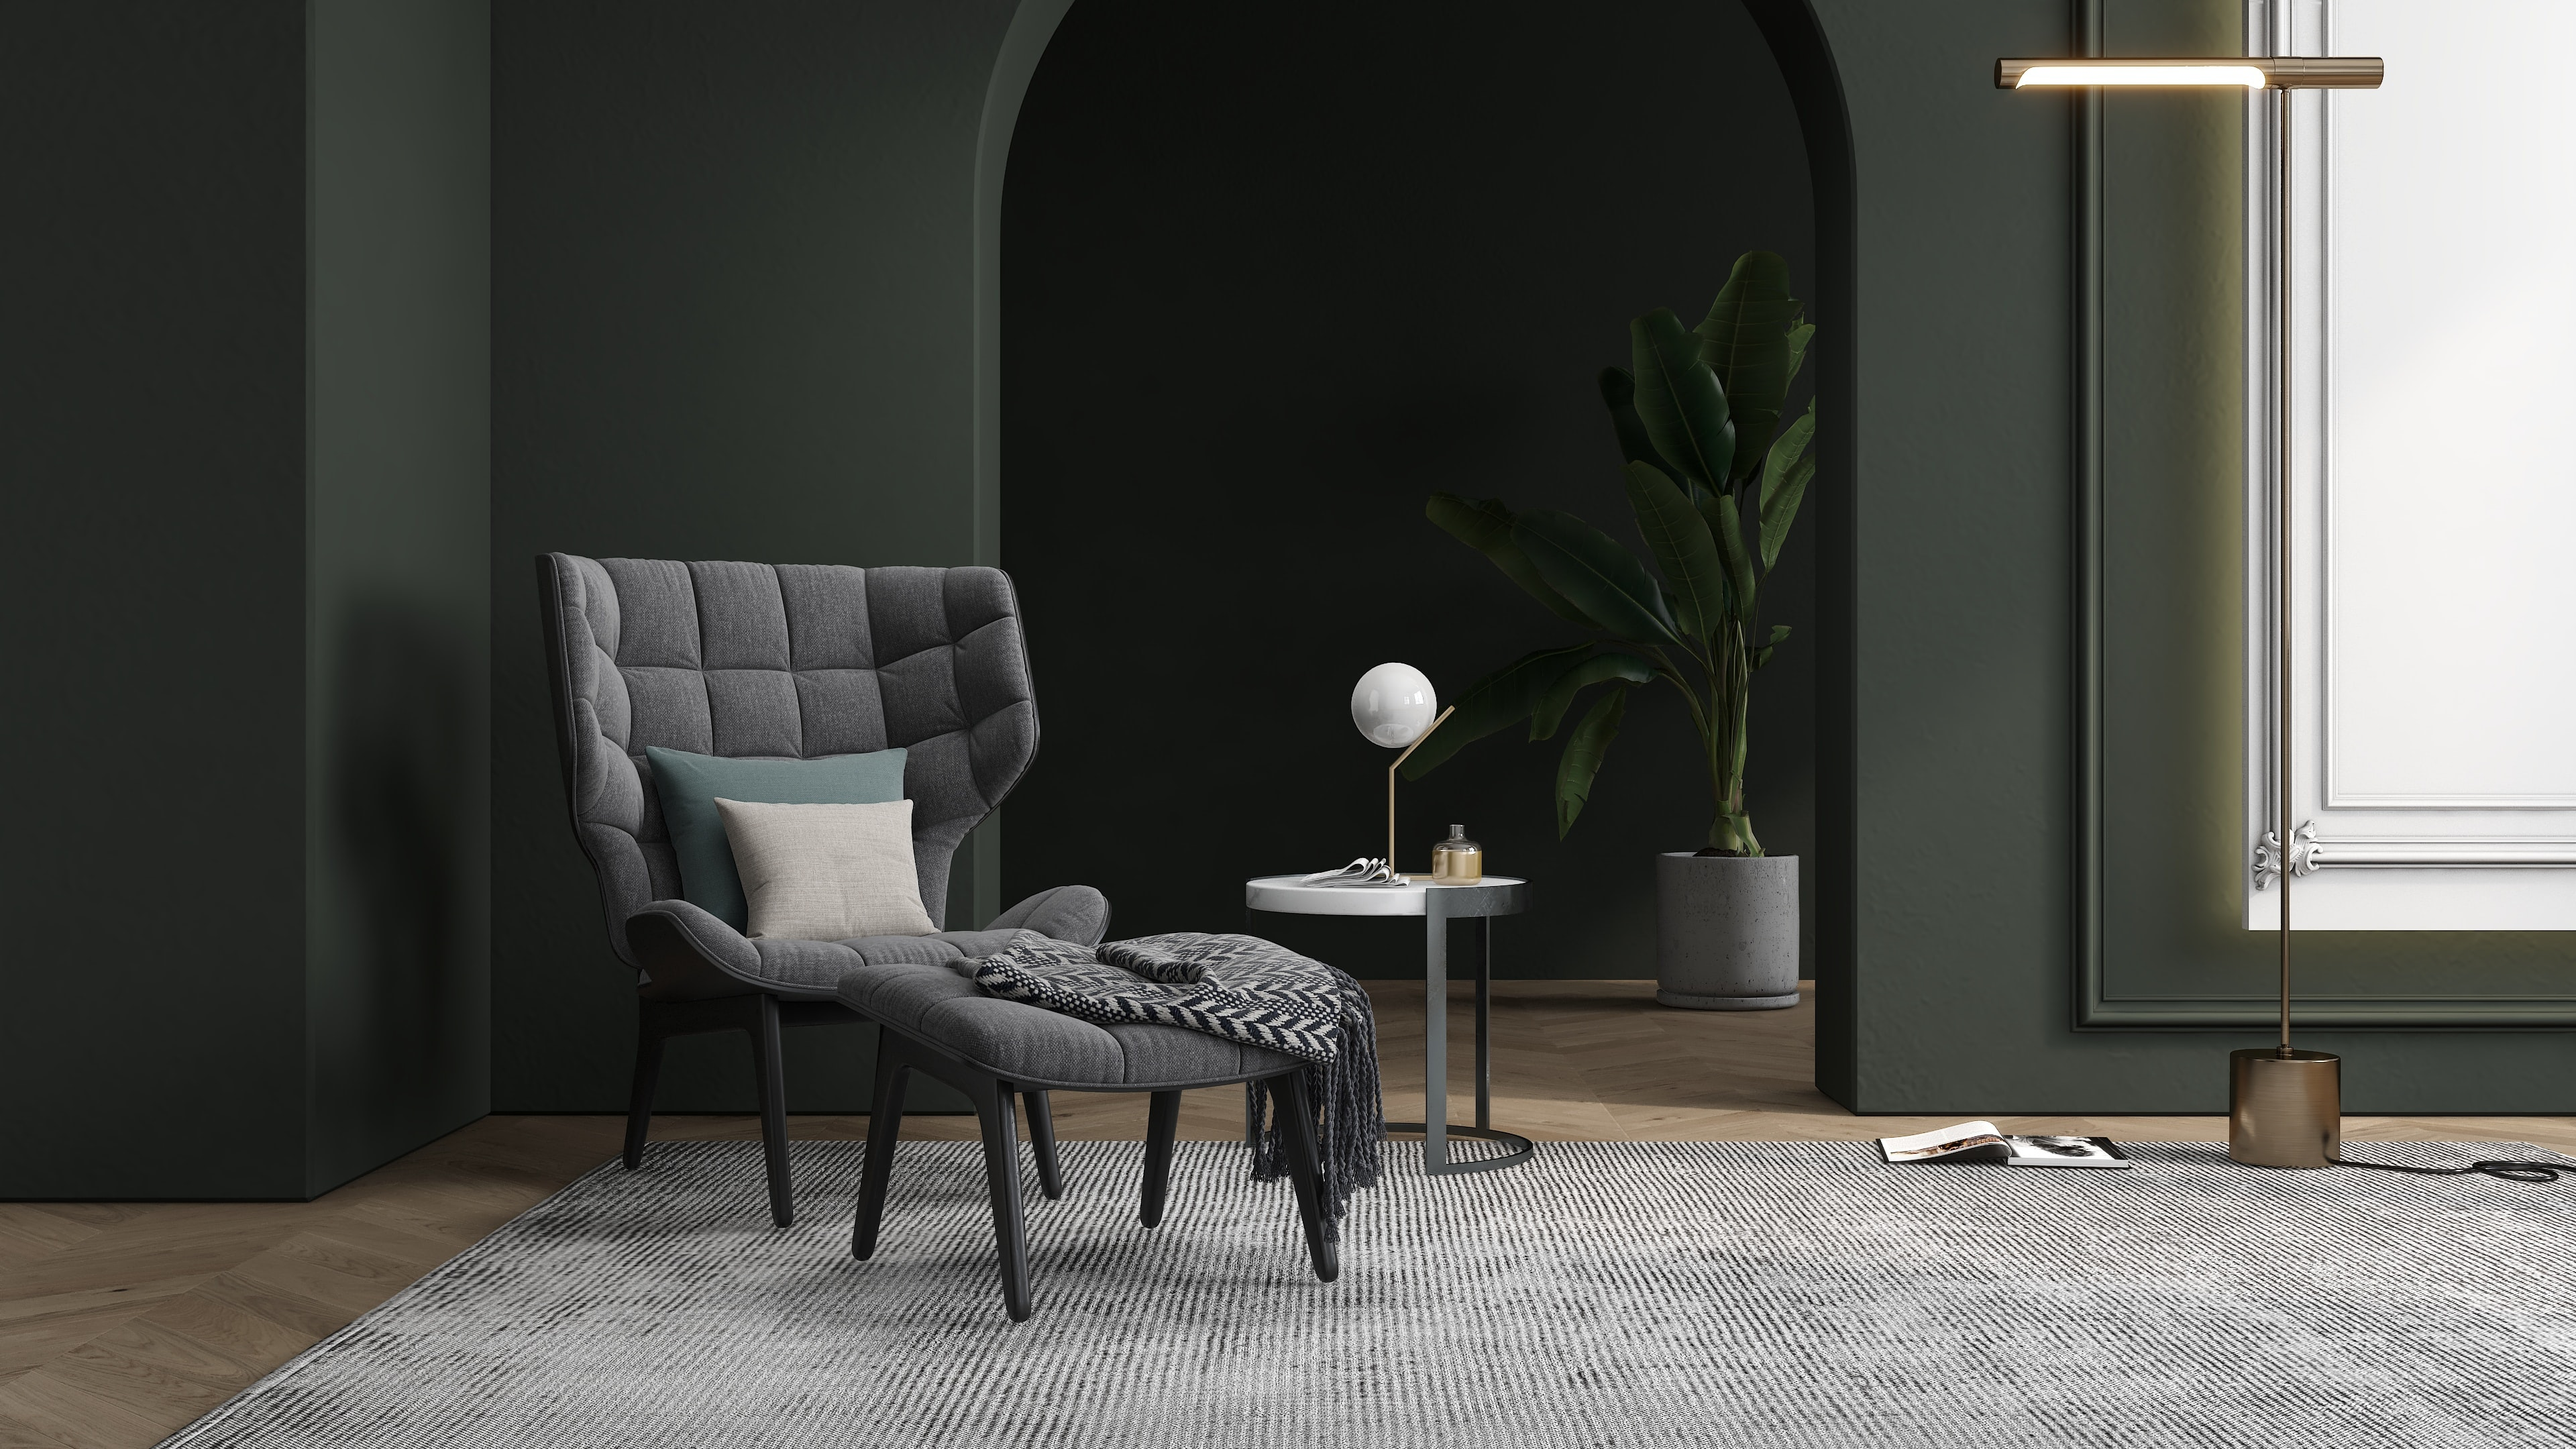
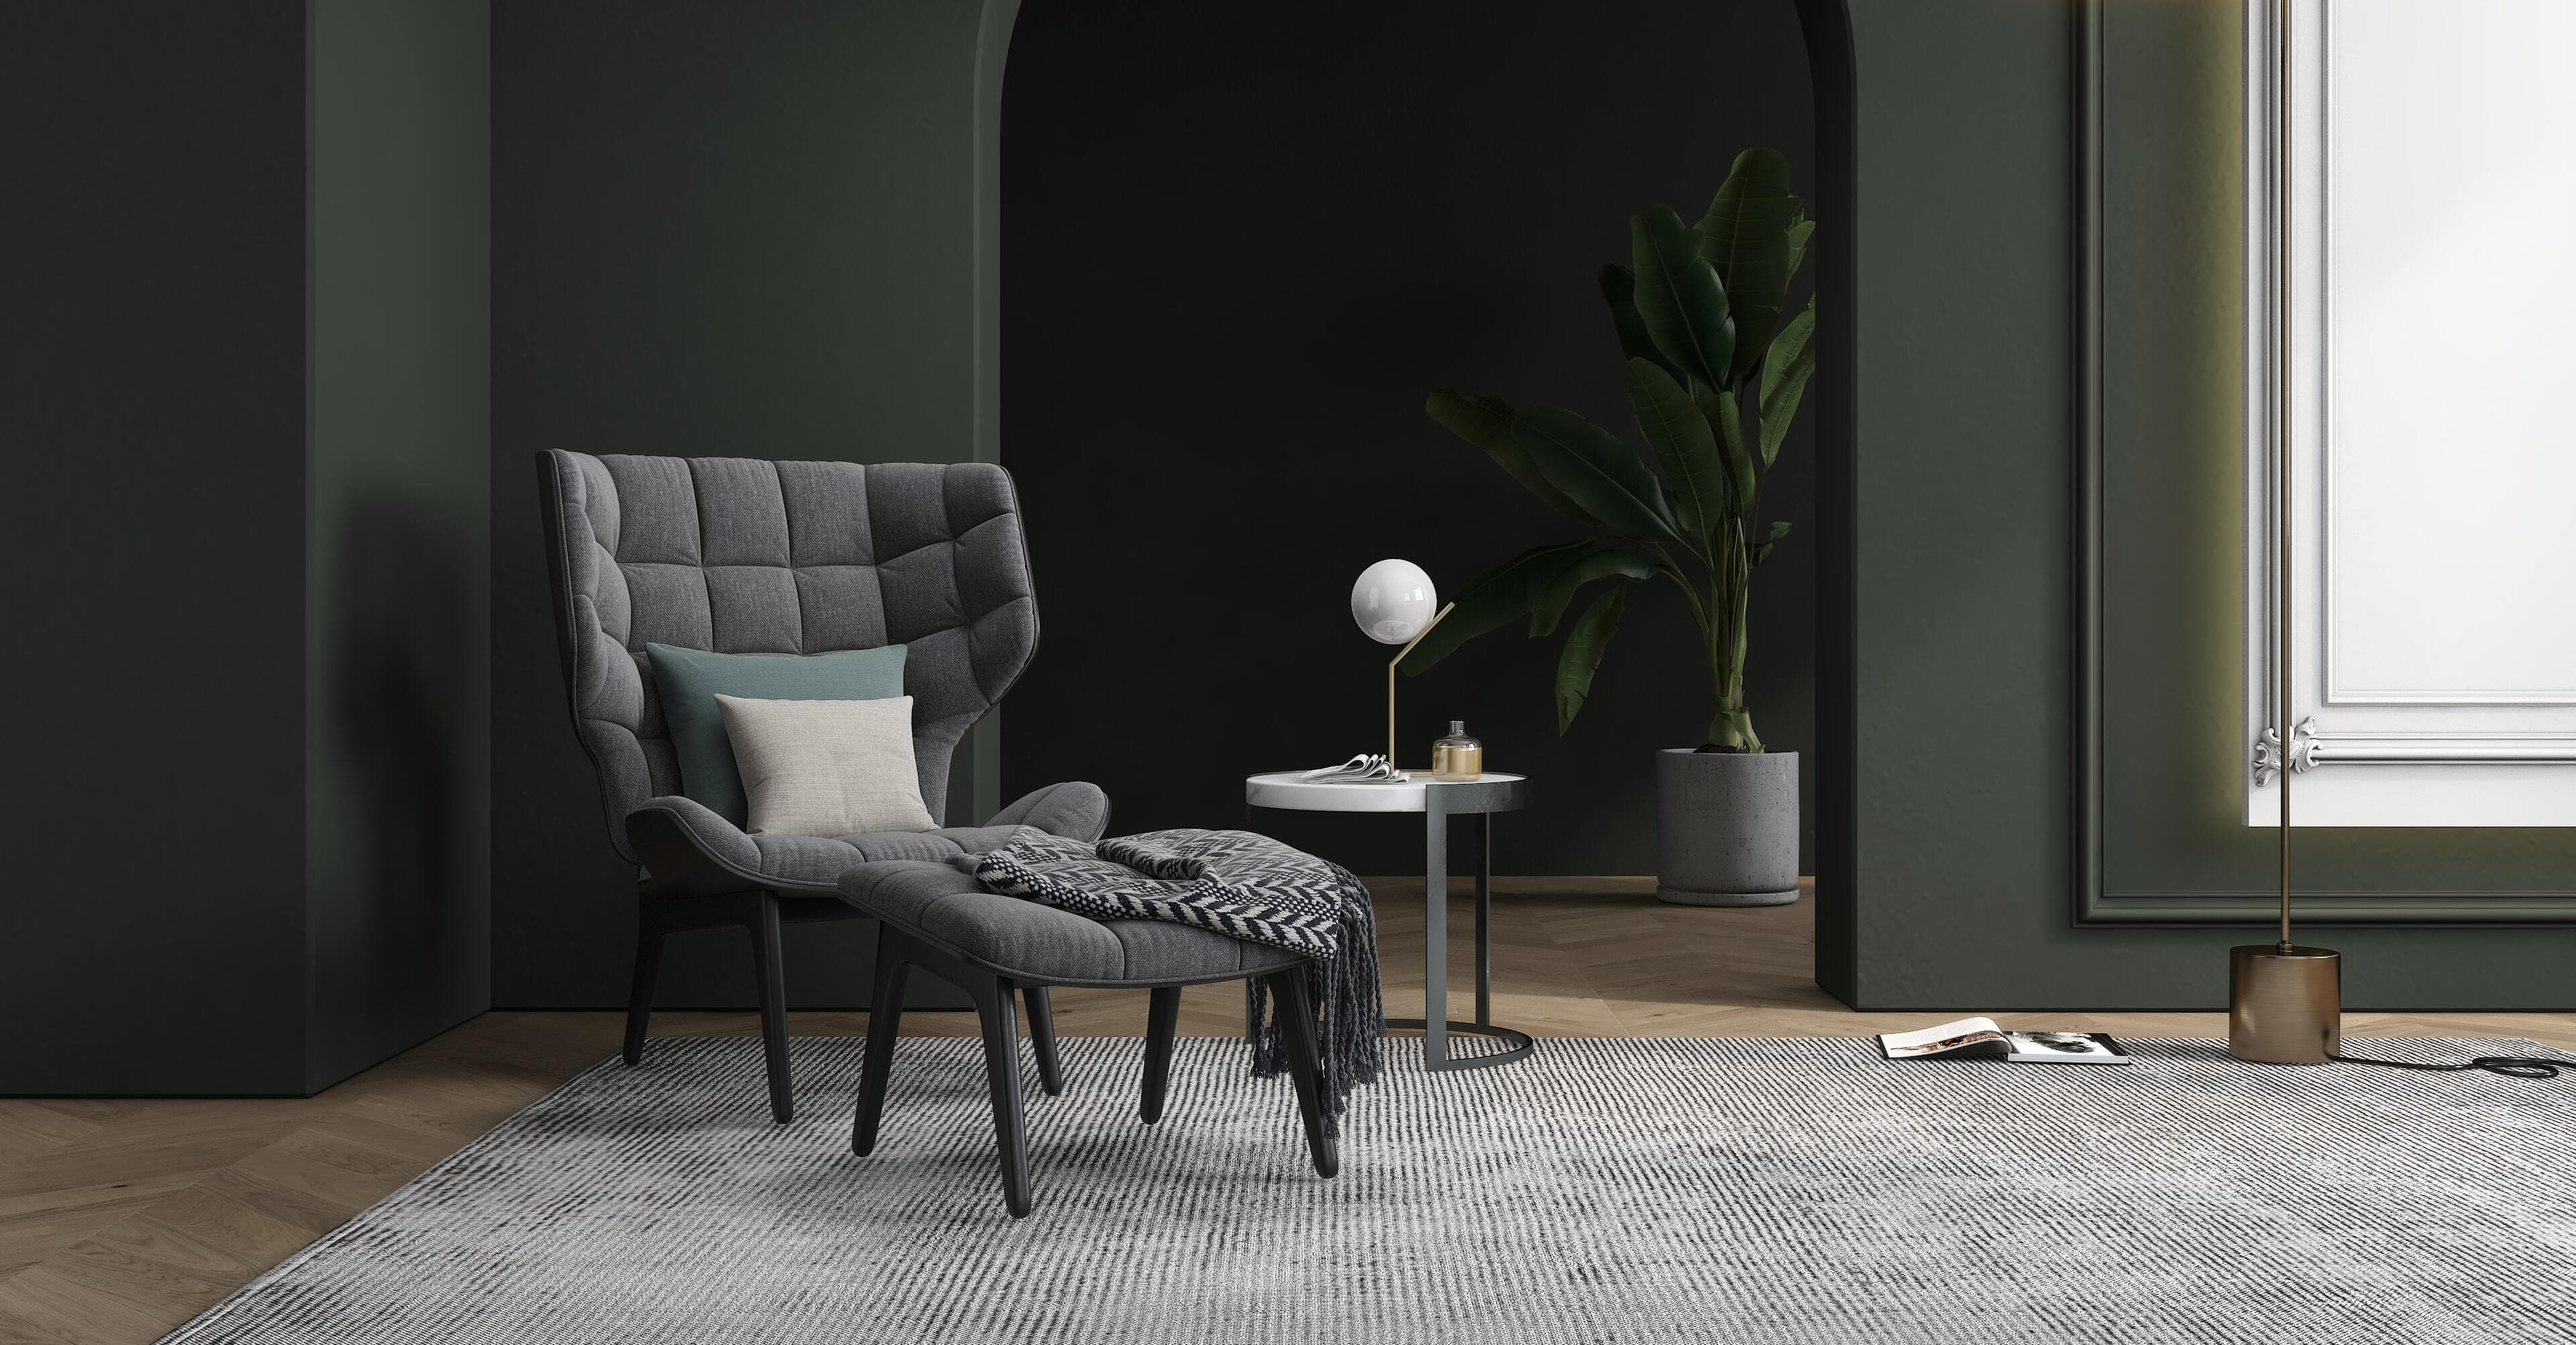
small changes

diff --git a/src/style/Home.css b/src/style/Home.css
@@ -1,9 +1,9 @@
 .hero {
-  height: 800px;
+  height: 920px;
   background-image: url(../assets/hero.jpg);
   padding-top: 80px;
   background-size: cover;
-  background-position: 0% 30%;
+  background-position: top left;
 }
 
 .title {
@@ -44,34 +44,6 @@
 
 .bg-color {
   background-color: #d8d4d4;
-  /* z-index: -10; */
   position: relative;
   overflow: hidden;
-}
-
-/* .bg-image {
-  background-repeat: no-repeat;
-  object-fit: scale-down;
-  object-position: right top;
-  background-image: url("../assets/bg.jpg");
-  width: 35%;
-  height: 85%;
-  position: absolute;
-  z-index: -1;
-  left: 150px;
-  top: 40px;
-} */
-
-.bg-image {
-  /* background-repeat: no-repeat;
-  object-fit: scale-down;
-  object-position: right top; */
-  background-color: #95a199;
-  width: 80%;
-  height: 100%;
-  position: absolute;
-  z-index: 0;
-  right: -330px;
-  top: 0;
-  border-radius: 25%;
 }

diff --git a/src/components/Footer.js b/src/components/Footer.js
@@ -65,9 +65,9 @@ const Footer = () => {
           </div>
           <div className="contacts">
             <h6>Contact</h6>
-            <p>Address: Islandijos pl. 32, 47446 Kaunas</p>
-            <p>Phone: +37064258935</p>
-            <p>Hours: 9:00 - 17:00, Mon - Fri</p>
+            <p>Islandijos pl. 32, 47446 Kaunas</p>
+            <p>Tel: +37064258935</p>
+            <p>MON-FRI 9AM - 6PM</p>
           </div>
         </div>
         <p className="copyright">© Copyright 2023 FURNITURE.</p>

diff --git a/src/components/BestSellers.js b/src/components/BestSellers.js
@@ -74,7 +74,7 @@ const BestSellers = () => {
 
   return (
     <div className="best-sellers">
-      <h2>Best Sellers</h2>
+      <h2 className="section-title">THE MUST HAVES FOR YOUR LIVING ROOM</h2>
       <div className="products-container">
         {products.map((product, index) => (
           <div key={index} className="product">

diff --git a/src/style/Footer.css b/src/style/Footer.css
@@ -9,7 +9,7 @@ footer {
   color: white;
   display: grid;
   grid-template-columns: 1fr 1fr 1fr 1fr;
-  border-bottom: 2px solid rgba(255, 255, 255, 0.699);
+  border-bottom: 1px solid rgba(255, 255, 255, 0.26);
 }
 
 .footer-wrap h6 {
@@ -66,4 +66,5 @@ footer {
 
 .copyright {
   text-align: end;
+  color: grey;
 }

diff --git a/src/style/BestSellers.css b/src/style/BestSellers.css
@@ -1,3 +1,11 @@
+.section-title {
+  font-size: 35px;
+  font-weight: 300;
+  text-align: center;
+  margin: 35px 0;
+  color: rgb(41, 41, 41);
+}
+
 .products-container {
   display: grid;
   grid-template-columns: 1fr 1fr 1fr 1fr;

diff --git a/src/App.css b/src/App.css
@@ -26,15 +26,6 @@ body {
   padding: 0 30px;
 }
 
-h2 {
-  font-size: 35px;
-  font-weight: 600;
-  font-style: italic;
-  text-align: center;
-  margin: 35px 0;
-  color: rgb(41, 41, 41);
-}
-
 p {
   font-size: 16px;
 }
